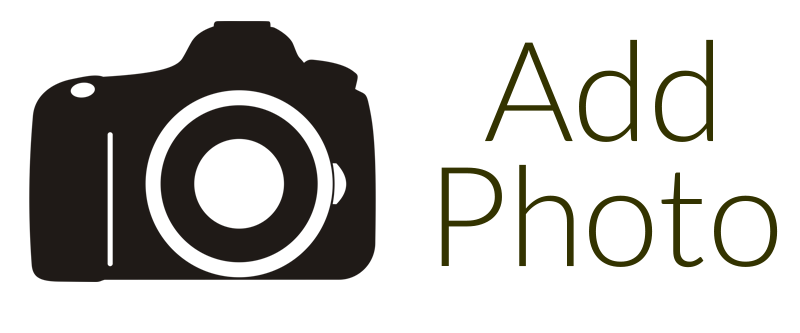
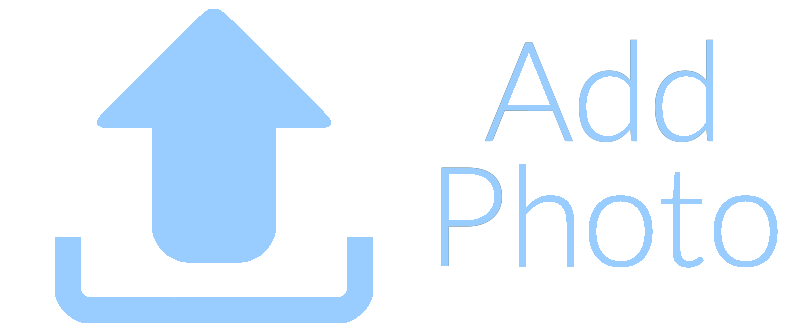
change appearance

diff --git a/max.html b/max.html
@@ -1,0 +1,84 @@
+<!DOCTYPE html>
+<html lang="en" class="no-js">
+	<head>
+		<meta charset="UTF-8" />
+		<meta http-equiv="X-UA-Compatible" content="IE=edge"> 
+		<meta name="viewport" content="width=device-width, initial-scale=1"> 
+		<title>Carolina Tiger Rescue | Tiger Cam</title>
+		<meta name="description" content="Hover Effect Ideas: Inspiration for subtle hover effects" />
+		<link rel="shortcut icon" href="../favicon.ico">
+		<link href='http://fonts.googleapis.com/css?family=Raleway:400,800,300' rel='stylesheet' type='text/css'>
+		<link rel="stylesheet" type="text/css" href="css/bootstrap.min.css" />
+        <link rel="stylesheet" type="text/css" href="css/normalize.css" />
+		<link rel="stylesheet" type="text/css" href="css/demo.css" />
+		<link rel="stylesheet" type="text/css" href="css/set1.css" />
+        
+		<!--[if IE]>
+  		<script src="http://html5shiv.googlecode.com/svn/trunk/html5.js"></script>
+		<![endif]-->
+	</head>
+	<body background="img/forest.png">
+    
+    <nav class="navbar navbar-inverse navbar-fixed-top" role="navigation">
+        <div class="container">
+            <!-- Brand and toggle get grouped for better mobile display -->
+            <div class="navbar-header">
+                <button type="button" class="navbar-toggle" data-toggle="collapse" data-target="#bs-example-navbar-collapse-1">
+                    <span class="sr-only">Toggle navigation</span>
+                    <span class="icon-bar"></span>
+                    <span class="icon-bar"></span>
+                    <span class="icon-bar"></span>
+                </button>
+                <a class="navbar-brand" href="#"><img src="img/CTR.png" height="50" width="50"></a>
+            </div>
+            <!-- Collect the nav links, forms, and other content for toggling -->
+            <div class="collapse navbar-collapse" id="bs-example-navbar-collapse-1">
+                <ul class="nav navbar-nav">
+                    <li>
+                        <a href="#">Main Site</a>
+                    </li>
+                    <li>
+                        <a href="#">Donate</a>
+                    </li>
+                    <li>
+                        <a href="#">Contact</a>
+                    </li>
+                </ul>
+            </div>
+            <!-- /.navbar-collapse -->
+        </div>
+        <!-- /.container -->
+    </nav>
+    
+    
+		<div class="container">
+			<!-- Top Navigation -->
+			<div class="codrops-top clearfix">
+				
+			</div>
+			<header class="codrops-header">
+				<h1><img src="img/CTR.png" height="100" width="100"> <span>Tiger Cam by Carolina Tiger Rescue</span></h1>
+
+			</header>
+			<div class="content">
+
+				<h2>Max</h2>
+				<div class="grid">
+				
+
+</div> <!-- content -->
+				
+				</div>
+                
+
+			<!-- Related demos -->
+			
+		</div><!-- /container -->
+		<script>
+			// For Demo purposes only (show hover effect on mobile devices)
+			[].slice.call( document.querySelectorAll('a[href="#"') ).forEach( function(el) {
+				el.addEventListener( 'click', function(ev) { ev.preventDefault(); } );
+			} );
+		</script>
+	</body>
+</html>

diff --git a/upload.html b/upload.html
@@ -8,6 +8,7 @@
   content="user-scalable=no, initial-scale=1, maximum-scale=1, minimum-scale=1, width=device-width, height=device-height, target-densitydpi=device-dpi" />
     <title>PhotoLoco</title>
     <link rel="stylesheet" href="css/foundation.css" />
+    <link rel="stylesheet" href="css/theme.css" />
     <script src="js/vendor/modernizr.js"></script>
     <script src="js/app.js"></script>
     <script src="js/parse-1.2.8.min.js"></script>
@@ -62,7 +63,7 @@
 				    <div class="large-12 columns">
              
                  <center>  <a href="#" onclick="capturePhoto()"><img src="img/take_photo.png" height="50" width="120"></a>
-                                   <a href="#" onclick="choosePhoto()"><img src="img/upload_photo.png" height="50" width="120"></a> </center>
+                                   <a href="#" onclick="choosePhoto()"><img src="img/add_photo.png" height="50" width="120"></a> </center>
                       
 				    </div>
              

diff --git a/index.html b/index.html
@@ -8,6 +8,7 @@
   content="user-scalable=no, initial-scale=1, maximum-scale=1, minimum-scale=1, width=device-width, height=device-height, target-densitydpi=device-dpi" />
     <title>PhotoLoco</title>
     <link rel="stylesheet" href="css/foundation.css" />
+    <link rel="stylesheet" href="css/theme.css" />
     <script src="js/vendor/modernizr.js"></script>
     <script src="js/app.js"></script>
     <script src="js/parse-1.2.8.min.js"></script>
@@ -23,17 +24,14 @@
       <div class="icon-bar three-up">
   <a  href="index.html" class="item">
     <i class="fa fa-home"></i> 
-    <label>Home</label>
   </a>
   <a class="item" href="upload.html">
     <i class="fa fa-camera"></i>
-    <label>Add Picture</label>
     
   </a>
 
   <a class="item" href="contact.html">
     <i class="fa fa-envelope"></i>
-    <label>Contact Us</label>
   </a>
  
 </div>

diff --git a/css/theme.css b/css/theme.css
@@ -1,0 +1,33 @@
+@charset "UTF-8";
+/* CSS Document */
+
+.icon-bar > *:hover {
+background: #91C1F9;
+}
+a:hover, a:focus {
+color: #91C1F9;
+}
+element.style {
+}
+.icon-bar {
+width: 100%;
+font-size: 0;
+display: inline-block;
+background: #2F5A99;
+}
+
+.range-slider-handle {
+display: inline-block;
+position: absolute;
+z-index: 1;
+top: -0.3125rem;
+width: 2rem;
+height: 1.375rem;
+border: 1px solid none;
+cursor: pointer;
+background: #2F5A99;
+}
+
+.range-slider-handle:hover {
+background: #91C1F9;
+}

diff --git a/contact.html b/contact.html
@@ -8,6 +8,7 @@
       content="user-scalable=no, initial-scale=1, maximum-scale=1, minimum-scale=1, width=device-width, 					height=device-height, target-densitydpi=device-dpi" />
     <title>PhotoLoco</title>
     <link rel="stylesheet" href="css/foundation.css" />
+    <link rel="stylesheet" href="css/theme.css" />
     <script src="js/vendor/modernizr.js"></script>
     <link href="http://maxcdn.bootstrapcdn.com/font-awesome/4.2.0/css/font-awesome.min.css" rel="stylesheet">
   </head>
